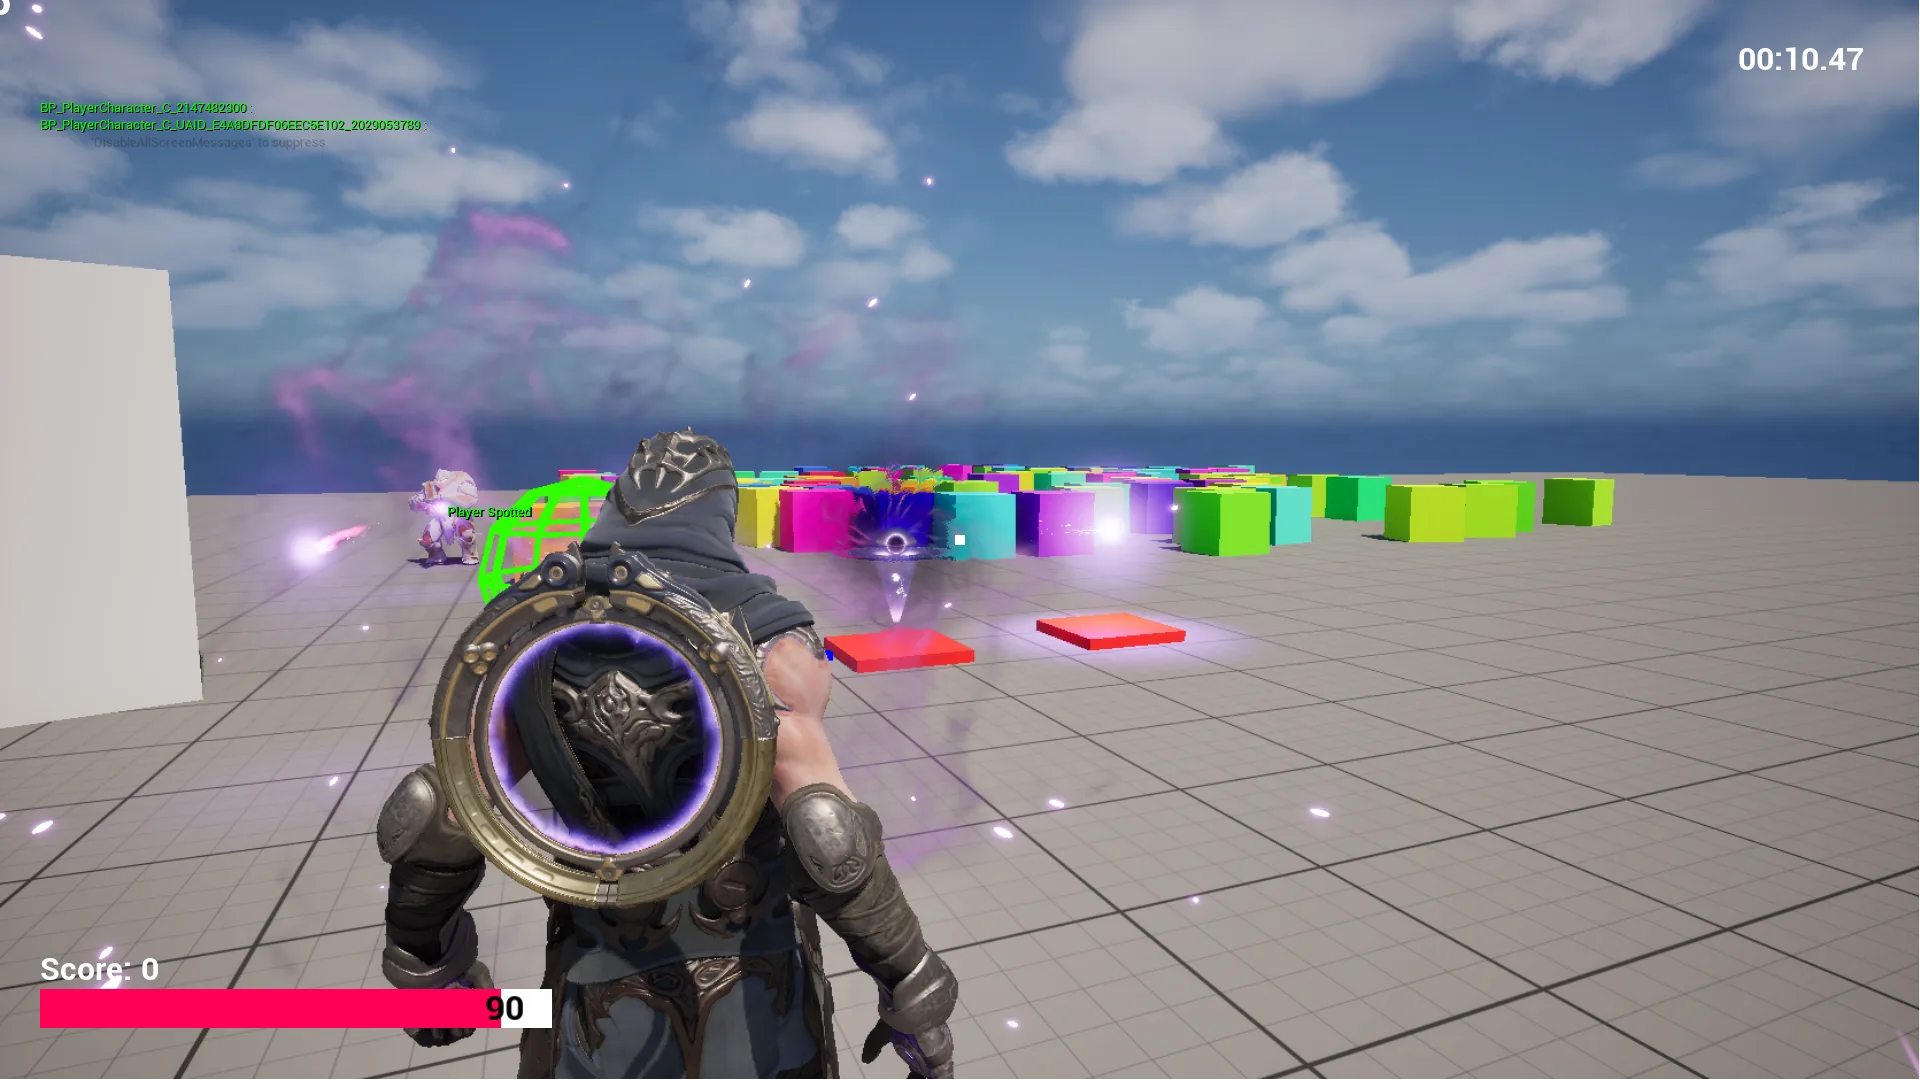
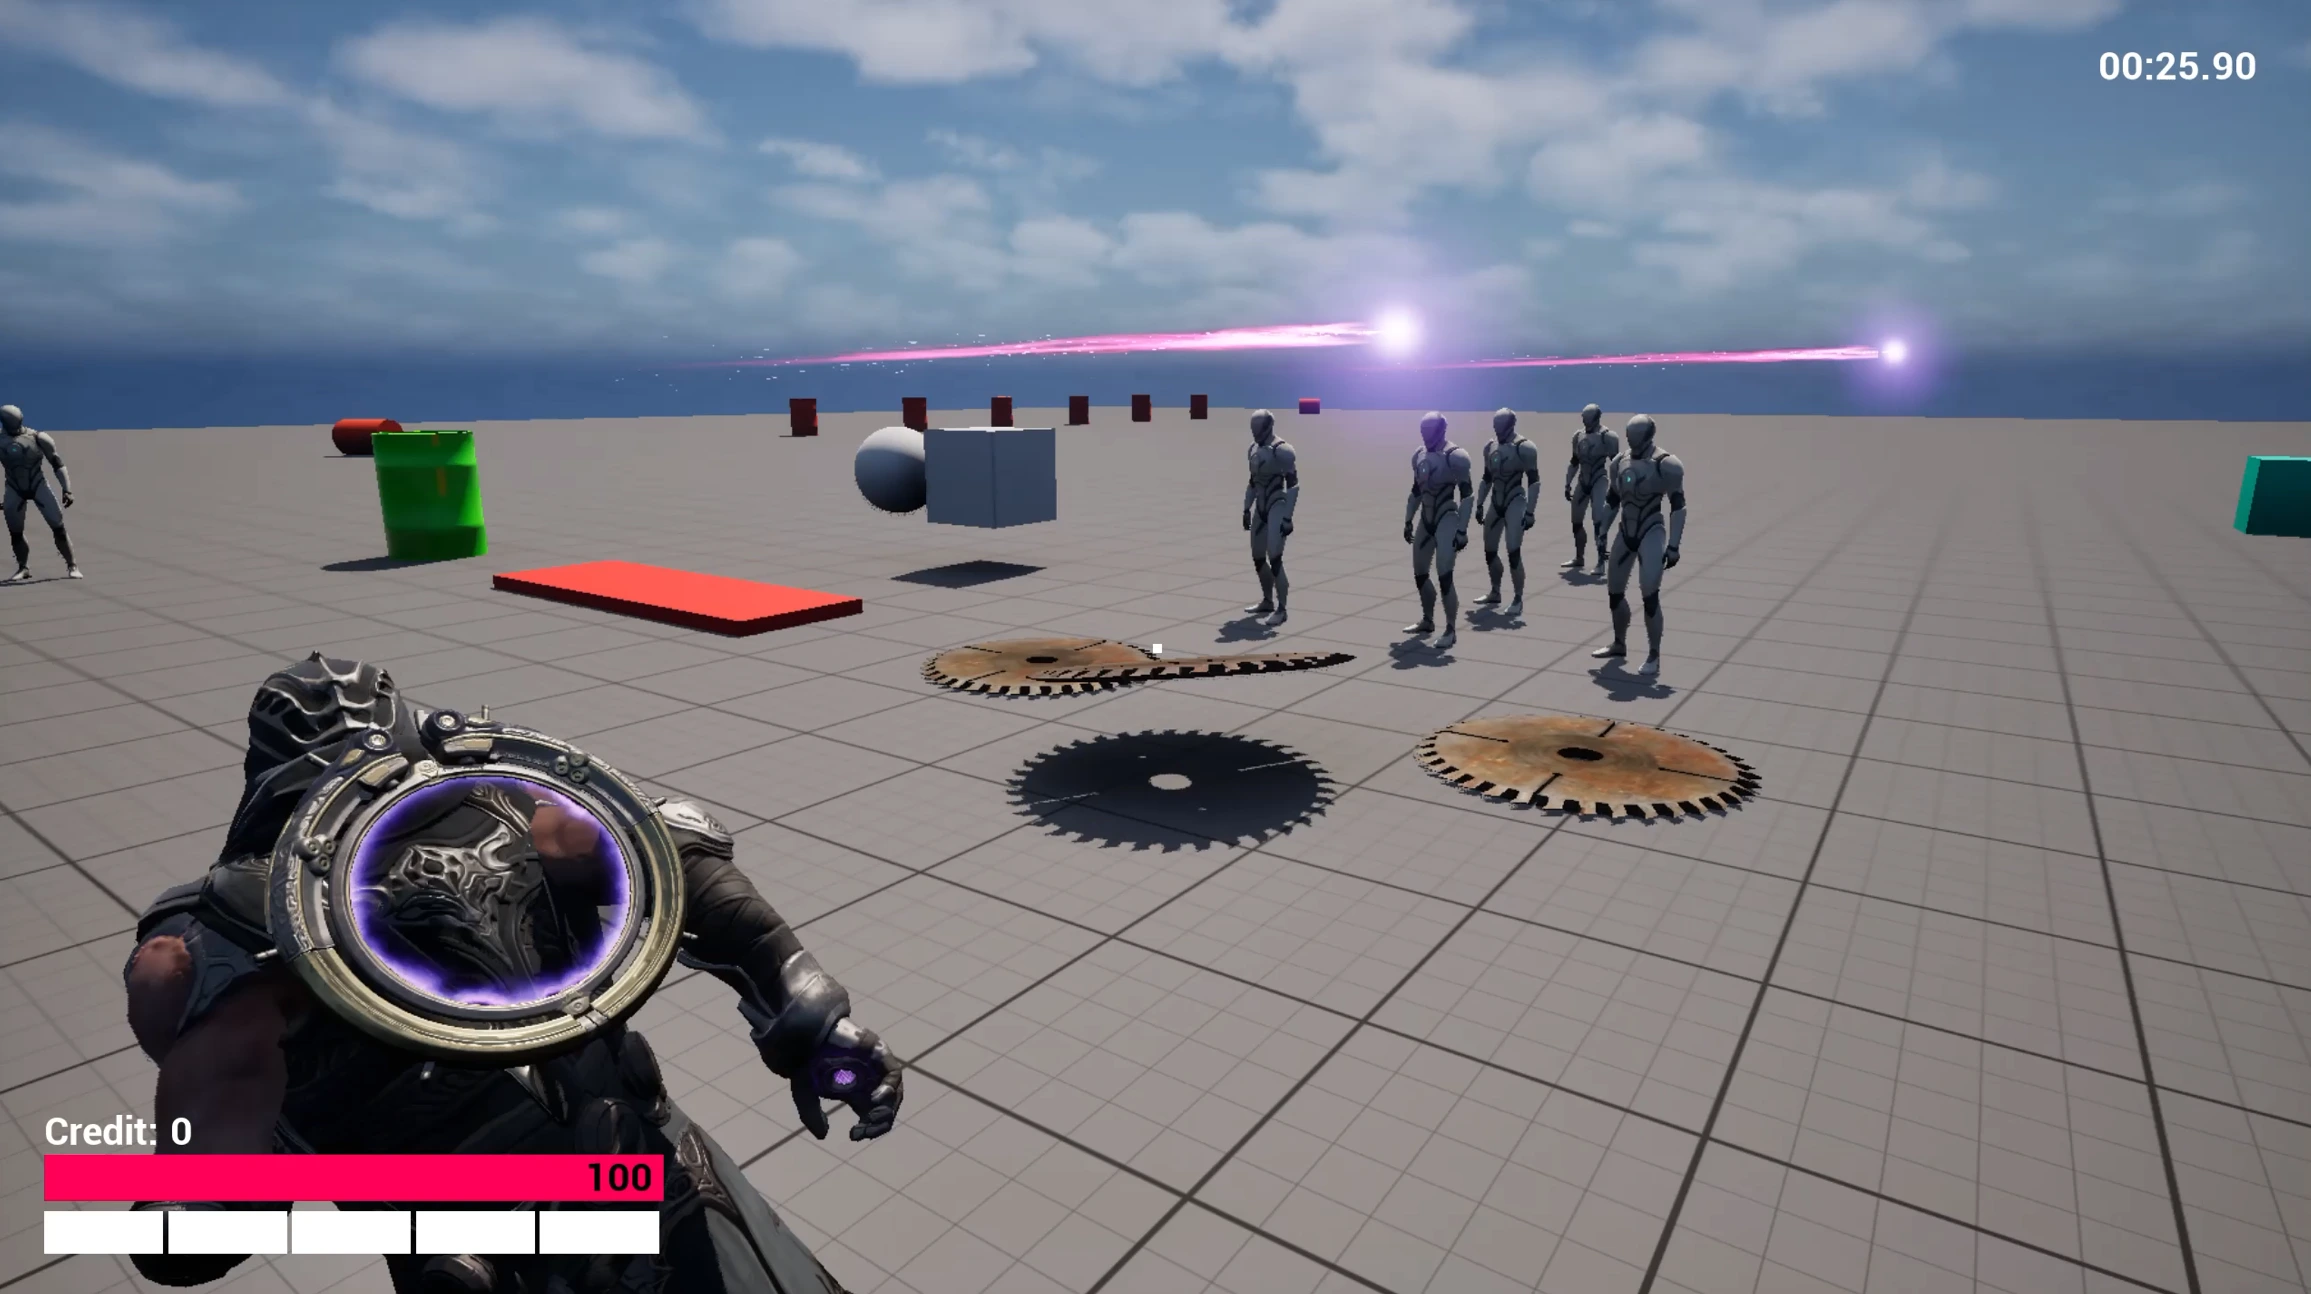
Devsandbox new imgs

diff --git a/index.html b/index.html
@@ -1356,10 +1356,12 @@ box-shadow: 5px 5px 0 var(--ink);
           <div class="photo-slide active"><img src="GameImgs/DevSandbox/1.webp" alt="screenshot" loading="lazy" decoding="async"></div>
           <div class="photo-slide"><img src="GameImgs/DevSandbox/2.webp" alt="screenshot" loading="lazy" decoding="async"></div>
           <div class="photo-slide"><img src="GameImgs/DevSandbox/3.webp" alt="screenshot" loading="lazy" decoding="async"></div>
+          <div class="photo-slide"><img src="GameImgs/DevSandbox/4.webp" alt="screenshot" loading="lazy" decoding="async"></div>
+          <div class="photo-slide"><img src="GameImgs/DevSandbox/5.webp" alt="screenshot" loading="lazy" decoding="async"></div>
           <button class="carousel-btn carousel-prev">‹</button>
           <button class="carousel-btn carousel-next">›</button>
-          <div class="carousel-dots"><div class="dot active"></div><div class="dot"></div><div class="dot"></div></div>
-          <div class="photo-count">1 / 3</div>
+          <div class="carousel-dots"><div class="dot active"></div><div class="dot"></div><div class="dot"></div><div class="dot"></div><div class="dot"></div></div>
+          <div class="photo-count">1 / 5</div>
         </div>
         <div class="game-body">
           <div class="game-title-row">
@@ -1967,10 +1969,10 @@ box-shadow: 5px 5px 0 var(--ink);
         <img src="GameImgs/DevSandbox/1.webp" alt="Screenshot" loading="lazy">
       </div>
       <div class="bd-panel" style="aspect-ratio:16/9;">
-        <img src="GameImgs/DevSandbox/2.webp" alt="Screenshot" loading="lazy">
+        <img src="GameImgs/DevSandbox/4.webp" alt="Screenshot" loading="lazy">
       </div>
       <div class="bd-panel bd-panel-wide" style="aspect-ratio:21/9;">
-        <img src="GameImgs/DevSandbox/3.webp" alt="Screenshot" loading="lazy" style="object-position:center 40%;">
+        <img src="GameImgs/DevSandbox/3.webp" alt="Screenshot" loading="lazy">
       </div>
     </div>
     <!-- THE IDEA -->
